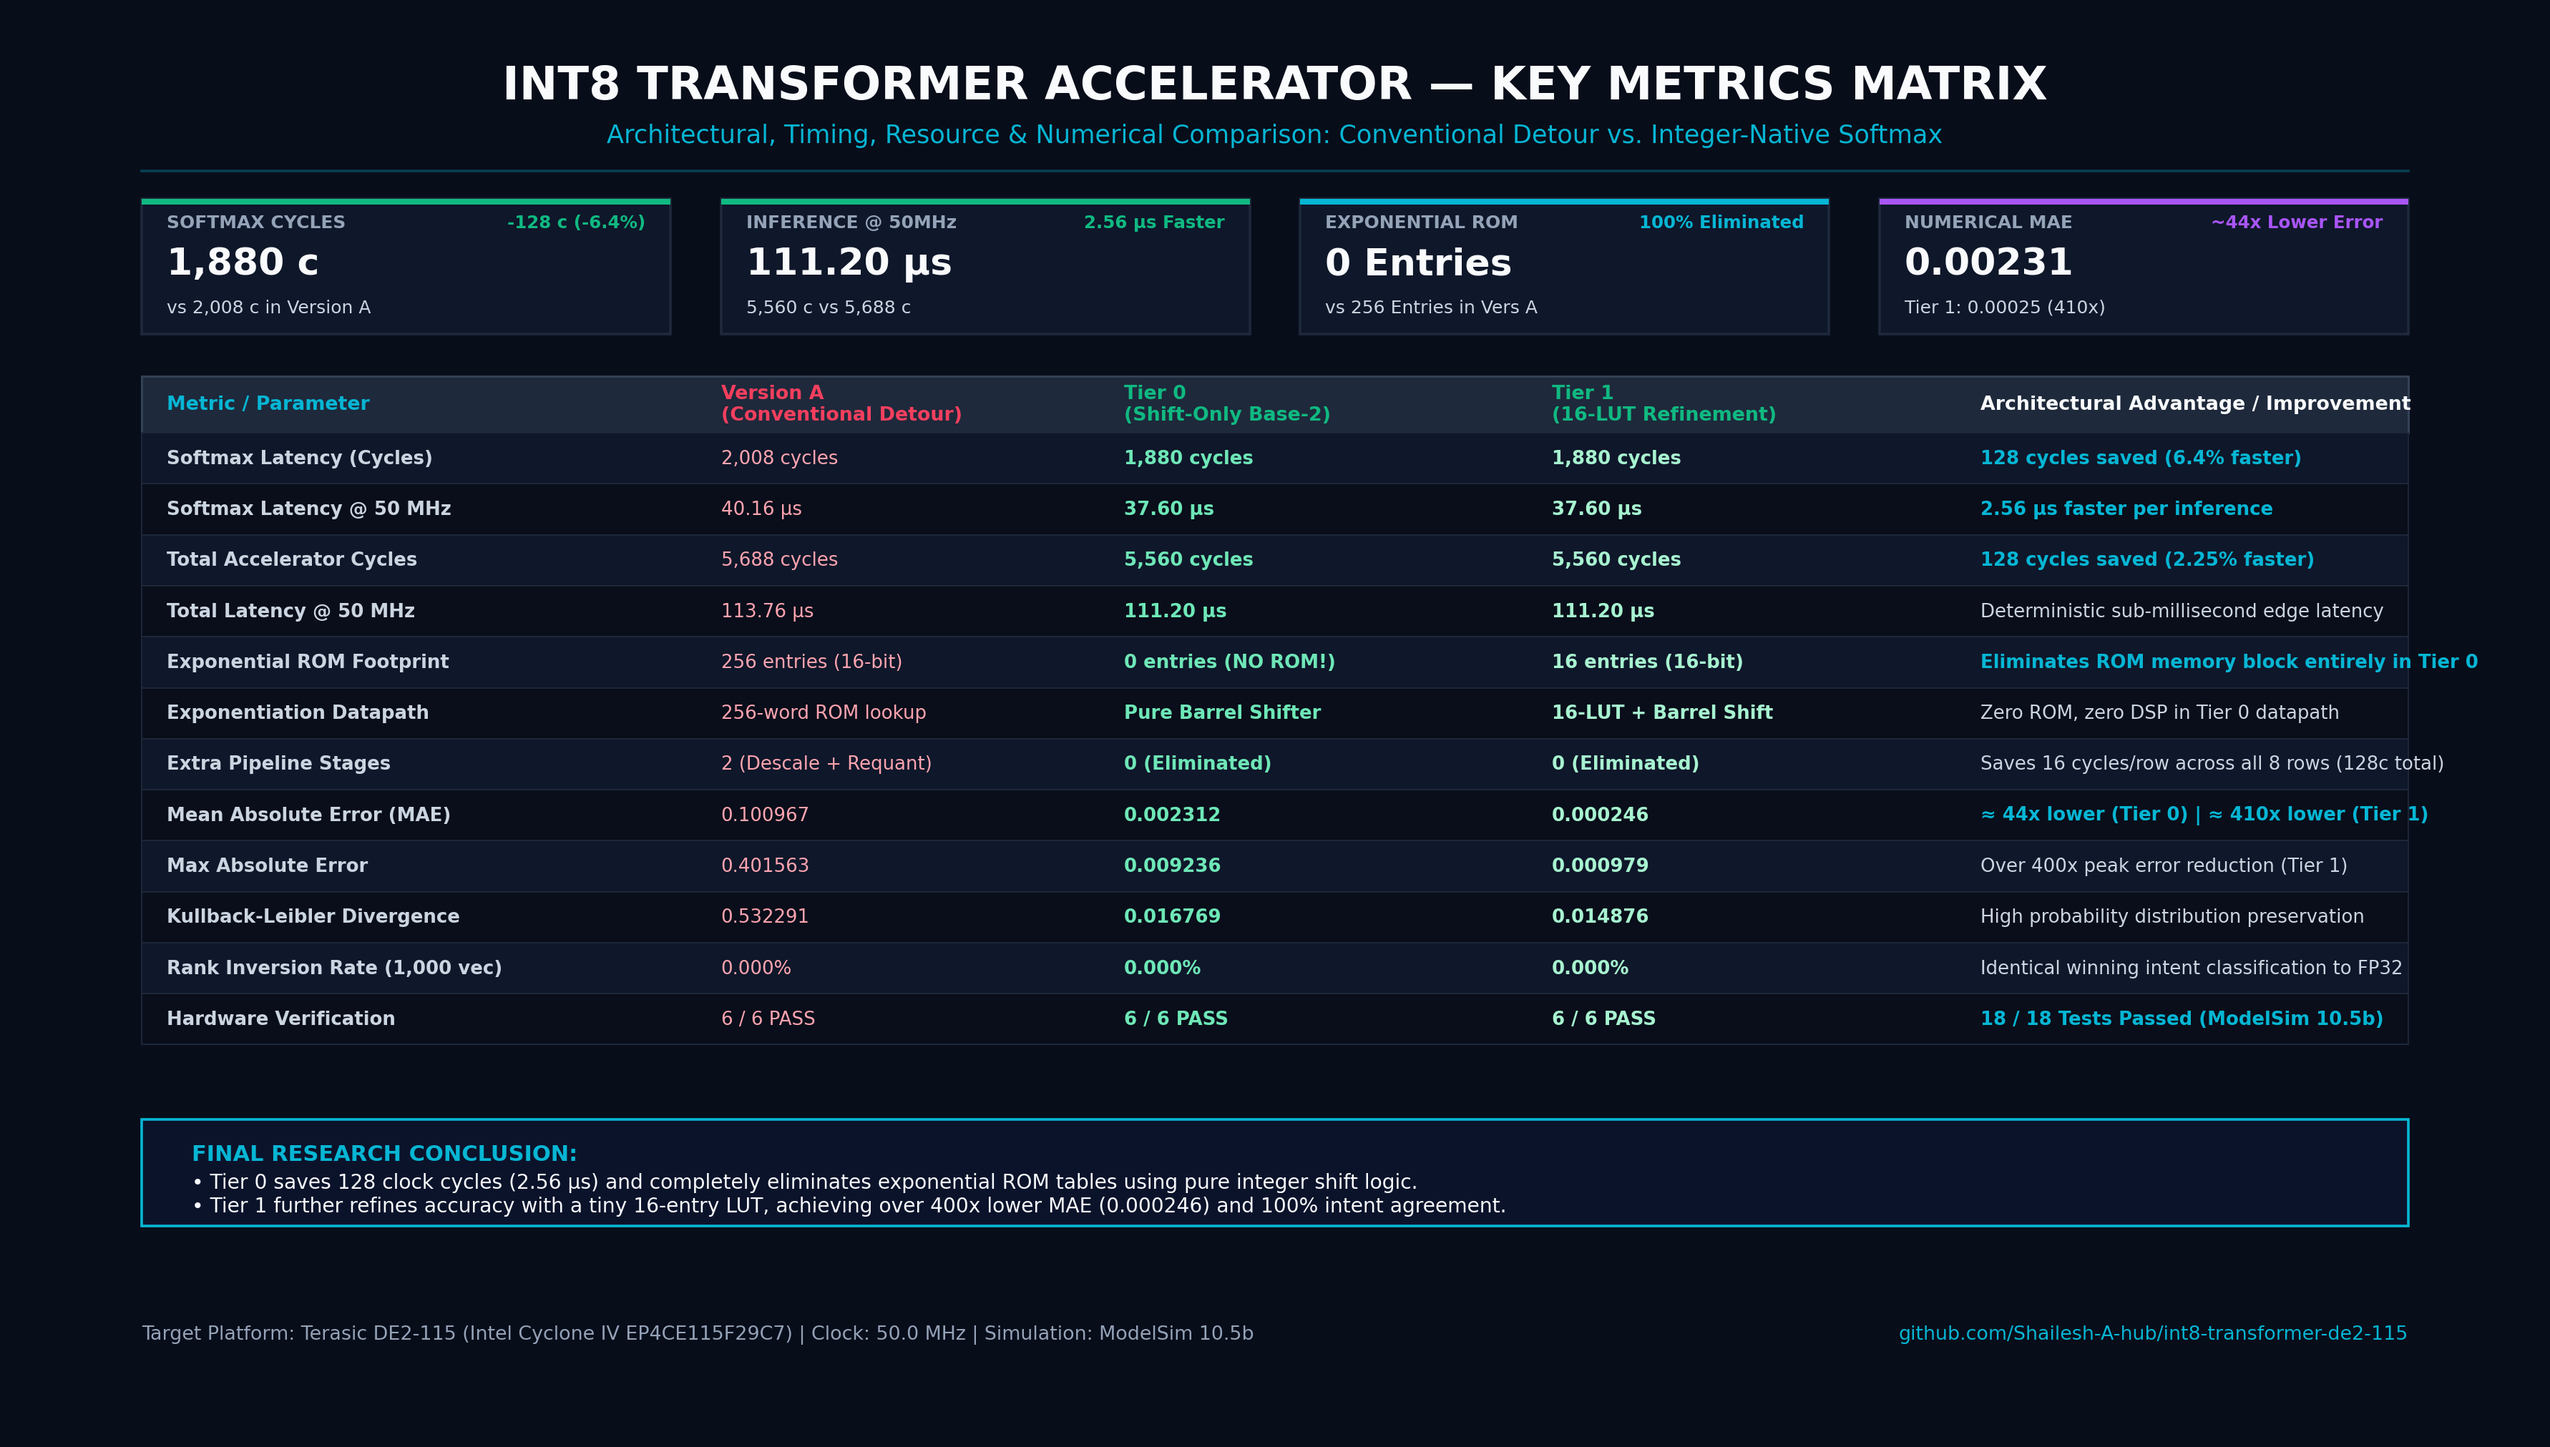
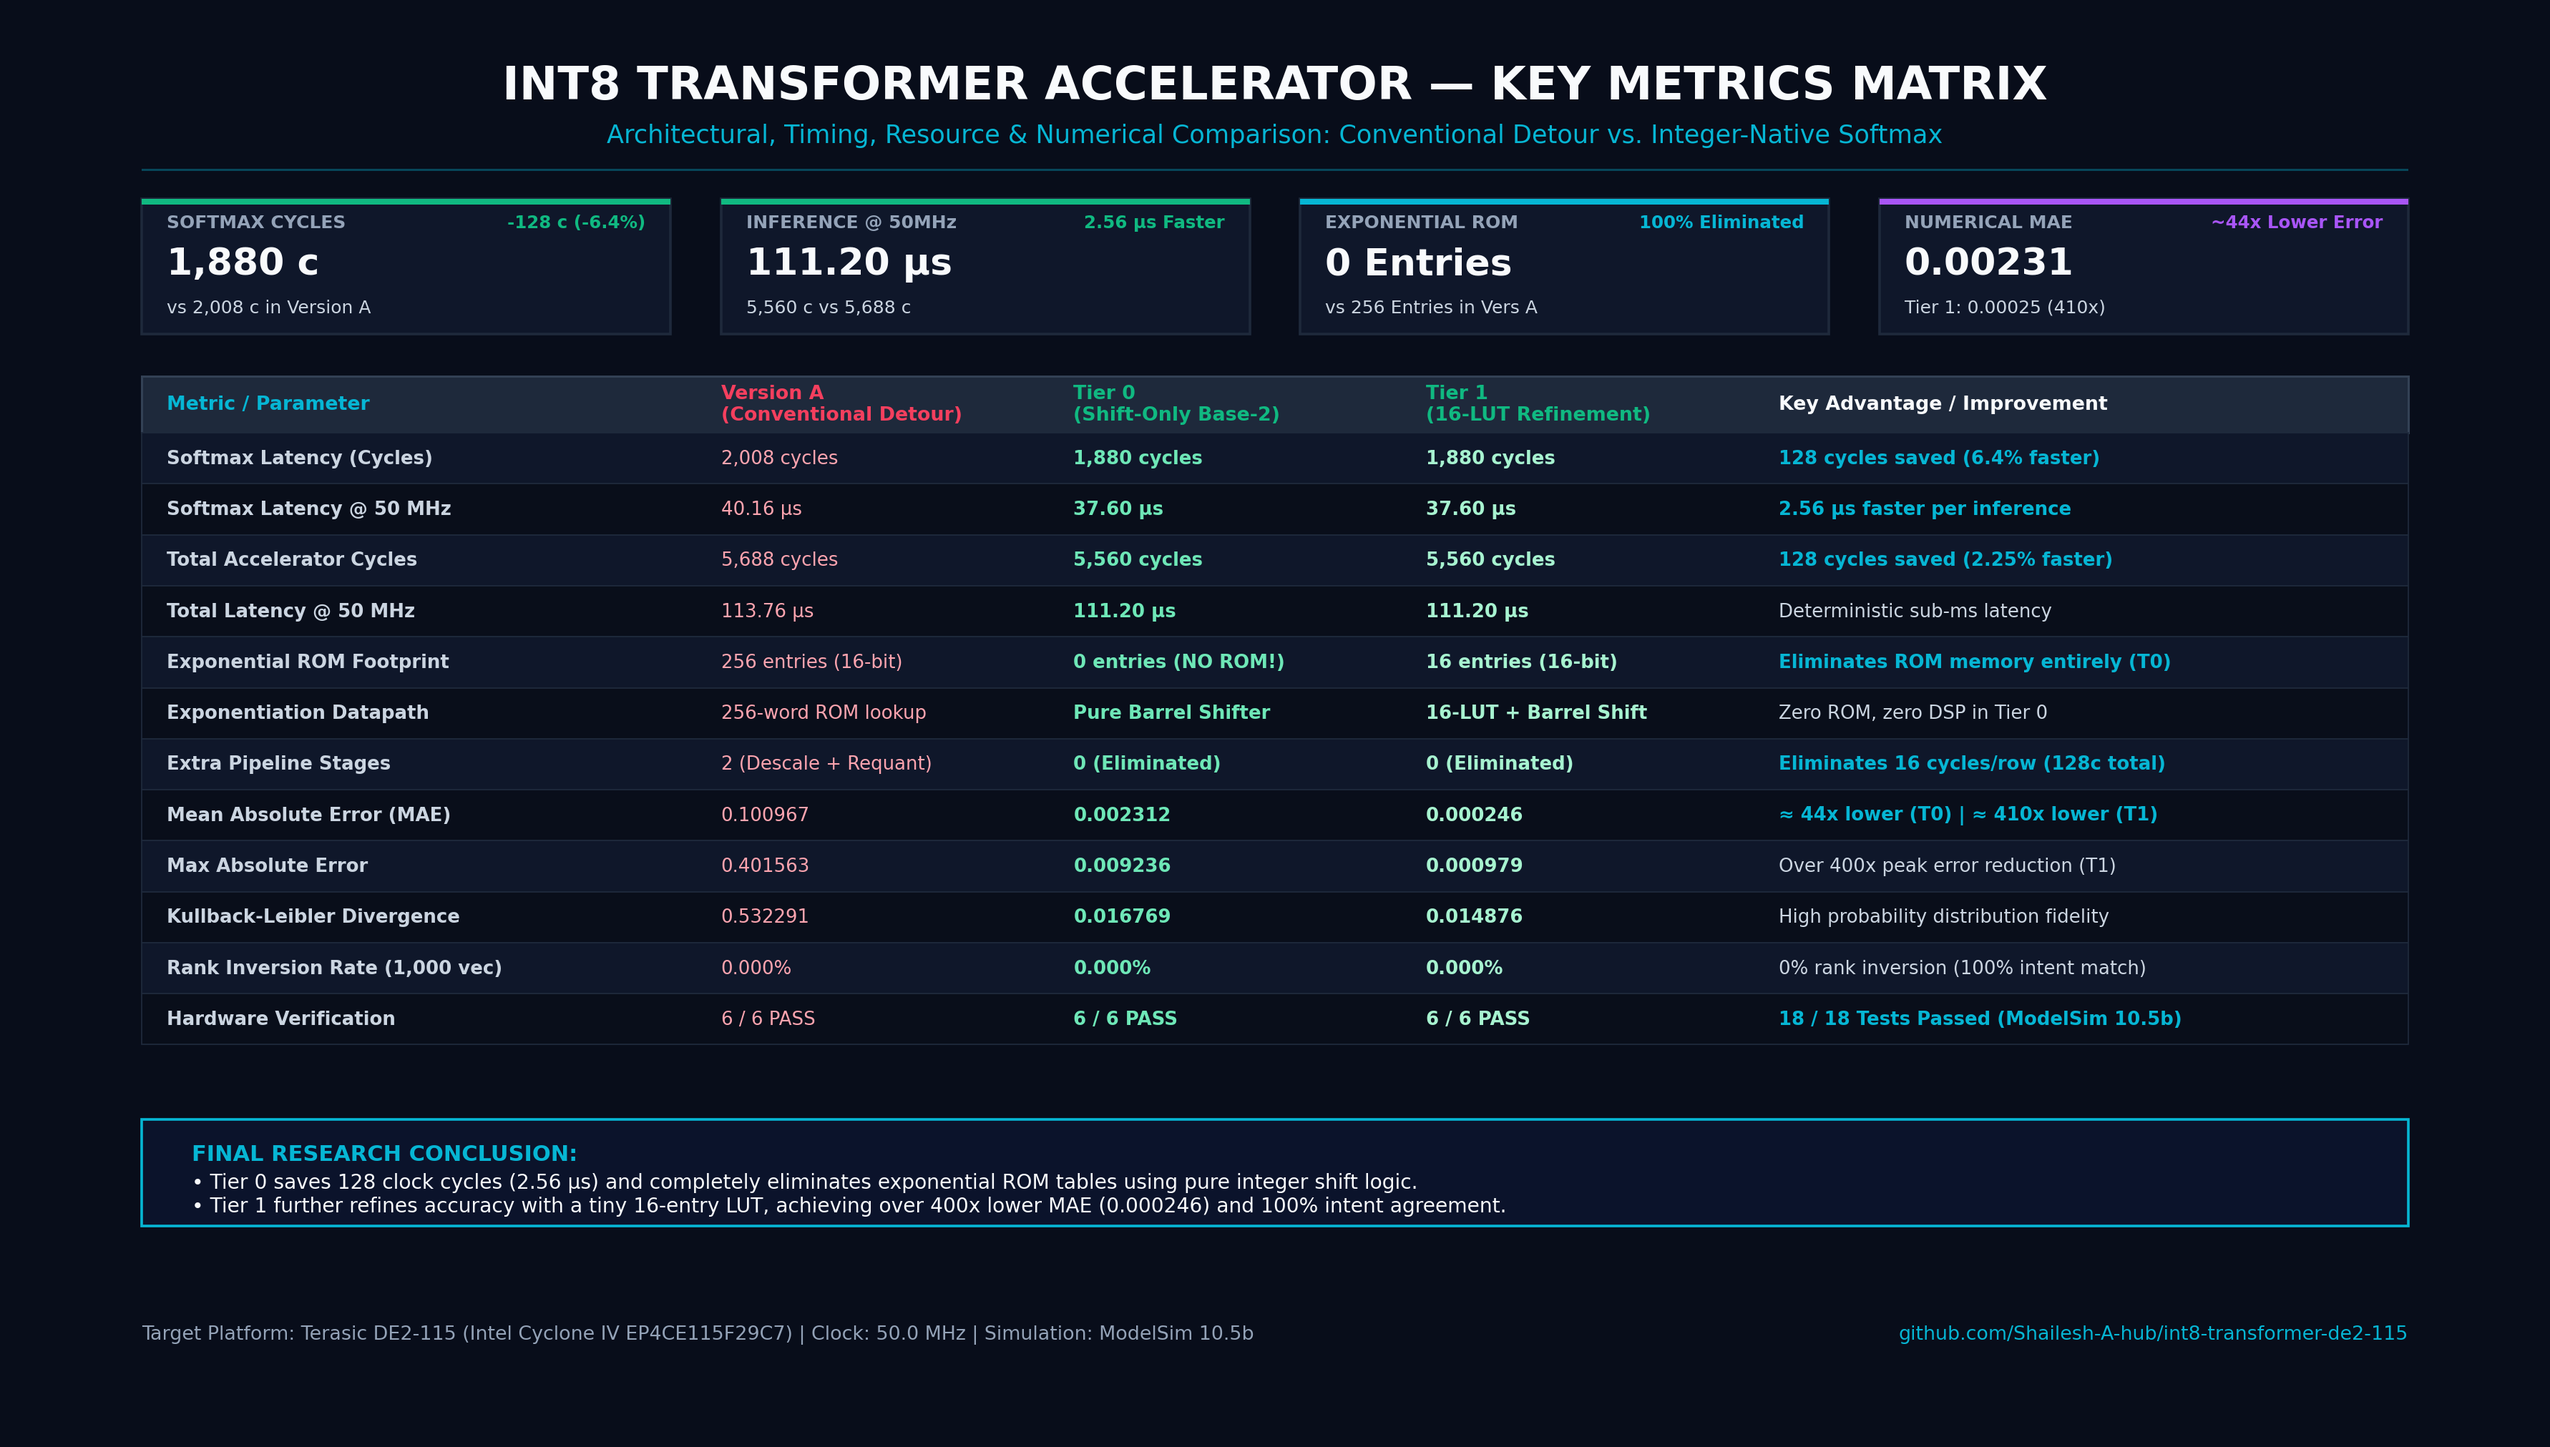
docs: update key metrics matrix infographic and generation script

diff --git a/scripts/generate_matrix_image.py b/scripts/generate_matrix_image.py
@@ -2,14 +2,14 @@ import matplotlib
 matplotlib.use('Agg')
 import matplotlib.pyplot as plt
 
-# 16:9 Aspect Ratio
+# 16:9 Presentation Aspect Ratio (1920x1080 equivalent at 200 DPI)
 fig = plt.figure(figsize=(16, 9), facecolor='#080D1A')
 ax = fig.add_axes([0, 0, 1, 1], facecolor='#080D1A')
 ax.set_xlim(0, 1)
 ax.set_ylim(0, 1)
 ax.axis('off')
 
-# Colors
+# Color palette
 BG_DARK = '#080D1A'
 CARD_BG = '#0F172A'
 BORDER_COLOR = '#1E293B'
@@ -27,7 +27,9 @@ ax.text(0.5, 0.950, "INT8 TRANSFORMER ACCELERATOR — KEY METRICS MATRIX",
 ax.text(0.5, 0.915, "Architectural, Timing, Resource & Numerical Comparison: Conventional Detour vs. Integer-Native Softmax",
         ha='center', va='center', fontsize=11.5, color=CYAN, transform=ax.transAxes)
 
-ax.plot([0.05, 0.95], [0.890, 0.890], color=CYAN, alpha=0.3, lw=1.2, transform=ax.transAxes)
+# Header divider line (using Rectangle to prevent any Line2D clipping artifacts)
+div_line = plt.Rectangle((0.05, 0.890), 0.90, 0.0015, facecolor=CYAN, alpha=0.35, edgecolor='none', transform=ax.transAxes, zorder=2)
+ax.add_patch(div_line)
 
 # 2. Top 4 KPI Highlight Cards
 kpis = [
@@ -82,9 +84,8 @@ for i, kpi in enumerate(kpis):
     stripe = plt.Rectangle((cx, card_y + card_h - 0.004), card_w, 0.004, facecolor=kpi["stripe_color"], edgecolor='none', transform=ax.transAxes, zorder=3)
     ax.add_patch(stripe)
 
-    # Title
+    # Title & Badge
     ax.text(cx + 0.010, card_y + card_h - 0.020, kpi["title"], fontsize=8.2, fontweight='bold', color=GRAY, transform=ax.transAxes, zorder=3)
-    # Badge (right aligned)
     ax.text(cx + card_w - 0.010, card_y + card_h - 0.020, kpi["badge"], fontsize=8.0, fontweight='bold', color=kpi["badge_color"],
             ha='right', transform=ax.transAxes, zorder=3)
             
@@ -95,39 +96,41 @@ for i, kpi in enumerate(kpis):
     ax.text(cx + 0.010, card_y + 0.015, kpi["sub"], fontsize=8.2, color=LIGHT_GRAY, transform=ax.transAxes, zorder=3)
 
 # 3. Key Comparison Matrix Table
+# Total table width = 0.90 exactly (0.05 to 0.95)
+# Column widths sum exactly to 0.90: 0.22 + 0.14 + 0.14 + 0.14 + 0.26 = 0.90
+col_widths = [0.22, 0.14, 0.14, 0.14, 0.26]
+col_x = [start_x]
+for w in col_widths[:-1]:
+    col_x.append(col_x[-1] + w)
+
 headers = [
     "Metric / Parameter", 
     "Version A\n(Conventional Detour)", 
     "Tier 0\n(Shift-Only Base-2)", 
     "Tier 1\n(16-LUT Refinement)", 
-    "Architectural Advantage / Improvement"
+    "Key Advantage / Improvement"
 ]
 
 table_data = [
     ["Softmax Latency (Cycles)", "2,008 cycles", "1,880 cycles", "1,880 cycles", "128 cycles saved (6.4% faster)"],
     ["Softmax Latency @ 50 MHz", "40.16 µs", "37.60 µs", "37.60 µs", "2.56 µs faster per inference"],
     ["Total Accelerator Cycles", "5,688 cycles", "5,560 cycles", "5,560 cycles", "128 cycles saved (2.25% faster)"],
-    ["Total Latency @ 50 MHz", "113.76 µs", "111.20 µs", "111.20 µs", "Deterministic sub-millisecond edge latency"],
-    ["Exponential ROM Footprint", "256 entries (16-bit)", "0 entries (NO ROM!)", "16 entries (16-bit)", "Eliminates ROM memory block entirely in Tier 0"],
-    ["Exponentiation Datapath", "256-word ROM lookup", "Pure Barrel Shifter", "16-LUT + Barrel Shift", "Zero ROM, zero DSP in Tier 0 datapath"],
-    ["Extra Pipeline Stages", "2 (Descale + Requant)", "0 (Eliminated)", "0 (Eliminated)", "Saves 16 cycles/row across all 8 rows (128c total)"],
-    ["Mean Absolute Error (MAE)", "0.100967", "0.002312", "0.000246", "≈ 44x lower (Tier 0) | ≈ 410x lower (Tier 1)"],
-    ["Max Absolute Error", "0.401563", "0.009236", "0.000979", "Over 400x peak error reduction (Tier 1)"],
-    ["Kullback-Leibler Divergence", "0.532291", "0.016769", "0.014876", "High probability distribution preservation"],
-    ["Rank Inversion Rate (1,000 vec)", "0.000%", "0.000%", "0.000%", "Identical winning intent classification to FP32"],
+    ["Total Latency @ 50 MHz", "113.76 µs", "111.20 µs", "111.20 µs", "Deterministic sub-ms latency"],
+    ["Exponential ROM Footprint", "256 entries (16-bit)", "0 entries (NO ROM!)", "16 entries (16-bit)", "Eliminates ROM memory entirely (T0)"],
+    ["Exponentiation Datapath", "256-word ROM lookup", "Pure Barrel Shifter", "16-LUT + Barrel Shift", "Zero ROM, zero DSP in Tier 0"],
+    ["Extra Pipeline Stages", "2 (Descale + Requant)", "0 (Eliminated)", "0 (Eliminated)", "Eliminates 16 cycles/row (128c total)"],
+    ["Mean Absolute Error (MAE)", "0.100967", "0.002312", "0.000246", "≈ 44x lower (T0) | ≈ 410x lower (T1)"],
+    ["Max Absolute Error", "0.401563", "0.009236", "0.000979", "Over 400x peak error reduction (T1)"],
+    ["Kullback-Leibler Divergence", "0.532291", "0.016769", "0.014876", "High probability distribution fidelity"],
+    ["Rank Inversion Rate (1,000 vec)", "0.000%", "0.000%", "0.000%", "0% rank inversion (100% intent match)"],
     ["Hardware Verification", "6 / 6 PASS", "6 / 6 PASS", "6 / 6 PASS", "18 / 18 Tests Passed (ModelSim 10.5b)"]
 ]
-
-col_widths = [0.22, 0.16, 0.17, 0.17, 0.23]
-col_x = [start_x]
-for w in col_widths[:-1]:
-    col_x.append(col_x[-1] + w)
 
 table_start_y = 0.745
 hdr_h = 0.040
 row_h = 0.036
 
-# Table Header
+# Table Header Box
 hdr_rect = plt.Rectangle((start_x, table_start_y - hdr_h), 0.90, hdr_h, facecolor='#1E293B', edgecolor='#334155', lw=1, transform=ax.transAxes, zorder=2)
 ax.add_patch(hdr_rect)
 
@@ -147,7 +150,7 @@ for r_idx, row in enumerate(table_data):
     for c_idx, val in enumerate(row):
         cx = col_x[c_idx] + 0.01
         
-        # Color & Weight
+        # Color & Weight formatting
         if c_idx == 0:
             val_color, fw = LIGHT_GRAY, 'bold'
         elif c_idx == 1:
@@ -163,7 +166,7 @@ for r_idx, row in enumerate(table_data):
             
         ax.text(cx, current_y + row_h/2, val, fontsize=8.5, fontweight=fw, color=val_color, va='center', transform=ax.transAxes, zorder=3)
 
-# 4. Bottom Conclusion Banner
+# 4. Bottom Conclusion Box (Strictly within [0.05, 0.95])
 bot_y = 0.145
 bot_h = 0.075
 bot_rect = plt.Rectangle((start_x, bot_y), 0.90, bot_h, facecolor='#0B132B', edgecolor=CYAN, lw=1.2, transform=ax.transAxes, zorder=2)
@@ -176,13 +179,13 @@ ax.text(start_x + 0.02, bot_y + bot_h/2 - 0.015,
         "• Tier 1 further refines accuracy with a tiny 16-entry LUT, achieving over 400x lower MAE (0.000246) and 100% intent agreement.",
         fontsize=9.2, color=WHITE, va='center', transform=ax.transAxes, zorder=3)
 
-# 5. Footer Metadata
+# 5. Footer Metadata (Strictly within [0.05, 0.95])
 ax.text(start_x, 0.065, "Target Platform: Terasic DE2-115 (Intel Cyclone IV EP4CE115F29C7) | Clock: 50.0 MHz | Simulation: ModelSim 10.5b",
         fontsize=8.8, color=GRAY, transform=ax.transAxes)
 ax.text(0.95, 0.065, "github.com/Shailesh-A-hub/int8-transformer-de2-115",
         fontsize=8.8, color=CYAN, ha='right', transform=ax.transAxes)
 
-# Save images
+# Save high-res PNG
 out_paths = [
     r"c:\Users\shail\OneDrive\Desktop\Docs\projects final copies\next gen\INT8_Transformer_DE2_115_Implementation\int8_transformer_de2_115\docs\key_metrics_matrix.png",
     r"c:\Users\shail\OneDrive\Desktop\Docs\projects final copies\next gen\key_metrics_matrix.png"
